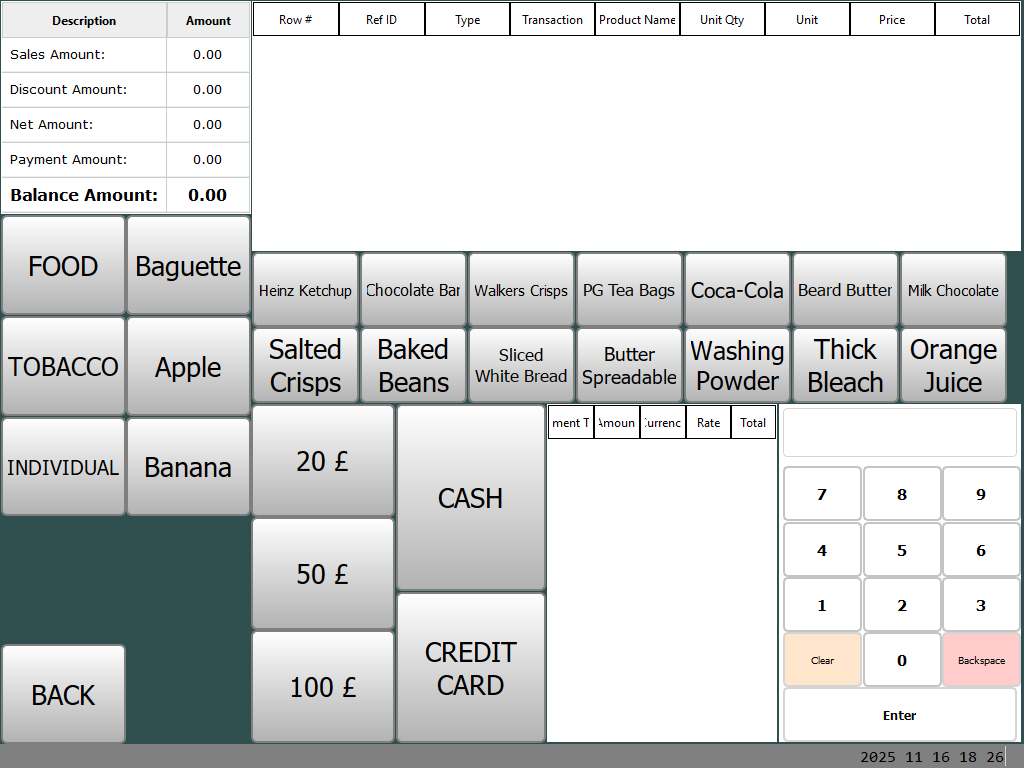
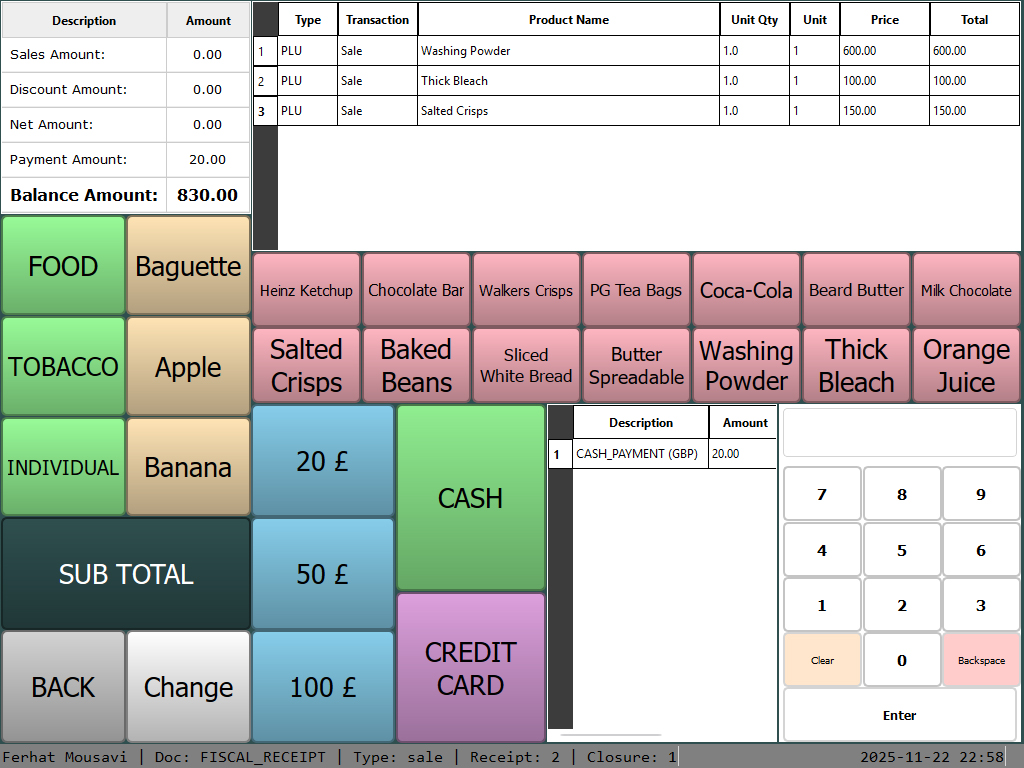
Update SALE form button colors with light color scheme

diff --git a/data_layer/db_init_data/form_control.py b/data_layer/db_init_data/form_control.py
@@ -368,8 +368,8 @@ def _insert_form_controls(session: Session, cashier_id: str):
             font_size=12,
             input_type="ALPHANUMERIC",
             text_image_relation=None,
-            back_color=None,
-            fore_color=None,
+            back_color="0xD3D3D3",  # Light Gray
+            fore_color="0x000000",
             keyboard_value=None,
             fk_cashier_create_id=cashier_id,
             fk_cashier_update_id=cashier_id
@@ -407,8 +407,8 @@ def _insert_form_controls(session: Session, cashier_id: str):
             font_size=10,
             input_type="ALPHANUMERIC",
             text_image_relation=None,
-            back_color=None,
-            fore_color=None,
+            back_color="0x98FB98",  # Pale Green
+            fore_color="0x000000",
             keyboard_value=None,
             fk_cashier_create_id=cashier_id,
             fk_cashier_update_id=cashier_id
@@ -442,8 +442,8 @@ def _insert_form_controls(session: Session, cashier_id: str):
             font_size=10,
             input_type="ALPHANUMERIC",
             text_image_relation=None,
-            back_color=None,
-            fore_color=None,
+            back_color="0x98FB98",  # Pale Green
+            fore_color="0x000000",
             keyboard_value=None,
             fk_cashier_create_id=cashier_id,
             fk_cashier_update_id=cashier_id
@@ -477,8 +477,8 @@ def _insert_form_controls(session: Session, cashier_id: str):
             font_size=10,
             input_type="ALPHANUMERIC",
             text_image_relation=None,
-            back_color=None,
-            fore_color=None,
+            back_color="0x98FB98",  # Pale Green
+            fore_color="0x000000",
             keyboard_value=None,
             fk_cashier_create_id=cashier_id,
             fk_cashier_update_id=cashier_id
@@ -516,8 +516,8 @@ def _insert_form_controls(session: Session, cashier_id: str):
             font_size=12,
             input_type="ALPHANUMERIC",
             text_image_relation=None,
-            back_color=None,
-            fore_color=None,
+            back_color="0xFFE4B5",  # Moccasin
+            fore_color="0x000000",
             keyboard_value=None,
             fk_cashier_create_id=cashier_id,
             fk_cashier_update_id=cashier_id
@@ -551,8 +551,8 @@ def _insert_form_controls(session: Session, cashier_id: str):
             font_size=12,
             input_type="ALPHANUMERIC",
             text_image_relation=None,
-            back_color=None,
-            fore_color=None,
+            back_color="0xFFE4B5",  # Moccasin
+            fore_color="0x000000",
             keyboard_value=None,
             fk_cashier_create_id=cashier_id,
             fk_cashier_update_id=cashier_id
@@ -586,8 +586,8 @@ def _insert_form_controls(session: Session, cashier_id: str):
             font_size=12,
             input_type="ALPHANUMERIC",
             text_image_relation=None,
-            back_color=None,
-            fore_color=None,
+            back_color="0xFFE4B5",  # Moccasin
+            fore_color="0x000000",
             keyboard_value=None,
             fk_cashier_create_id=cashier_id,
             fk_cashier_update_id=cashier_id
@@ -645,8 +645,8 @@ def _insert_form_controls(session: Session, cashier_id: str):
                 font_size=12,
                 input_type="ALPHANUMERIC",
                 text_image_relation=None,
-                back_color=None,
-                fore_color=None,
+                back_color="0xFFB6C1",  # Light Pink
+                fore_color="0x000000",
                 keyboard_value=None,
                 fk_cashier_create_id=cashier_id,
                 fk_cashier_update_id=cashier_id
@@ -684,8 +684,8 @@ def _insert_form_controls(session: Session, cashier_id: str):
             font_size=12,
             input_type="ALPHANUMERIC",
             text_image_relation=None,
-            back_color=None,
-            fore_color=None,
+            back_color="0x87CEEB",  # Sky Blue
+            fore_color="0x000000",
             keyboard_value=None,
             fk_cashier_create_id=cashier_id,
             fk_cashier_update_id=cashier_id
@@ -719,8 +719,8 @@ def _insert_form_controls(session: Session, cashier_id: str):
             font_size=12,
             input_type="ALPHANUMERIC",
             text_image_relation=None,
-            back_color=None,
-            fore_color=None,
+            back_color="0x87CEEB",  # Sky Blue
+            fore_color="0x000000",
             keyboard_value=None,
             fk_cashier_create_id=cashier_id,
             fk_cashier_update_id=cashier_id
@@ -754,8 +754,8 @@ def _insert_form_controls(session: Session, cashier_id: str):
             font_size=12,
             input_type="ALPHANUMERIC",
             text_image_relation=None,
-            back_color=None,
-            fore_color=None,
+            back_color="0x87CEEB",  # Sky Blue
+            fore_color="0x000000",
             keyboard_value=None,
             fk_cashier_create_id=cashier_id,
             fk_cashier_update_id=cashier_id
@@ -789,8 +789,8 @@ def _insert_form_controls(session: Session, cashier_id: str):
             font_size=12,
             input_type="ALPHANUMERIC",
             text_image_relation=None,
-            back_color=None,
-            fore_color=None,
+            back_color="0x90EE90",  # Light Green
+            fore_color="0x000000",
             keyboard_value=None,
             fk_cashier_create_id=cashier_id,
             fk_cashier_update_id=cashier_id
@@ -824,8 +824,8 @@ def _insert_form_controls(session: Session, cashier_id: str):
             font_size=12,
             input_type="ALPHANUMERIC",
             text_image_relation=None,
-            back_color=None,
-            fore_color=None,
+            back_color="0xDDA0DD",  # Plum
+            fore_color="0x000000",
             keyboard_value=None,
             fk_cashier_create_id=cashier_id,
             fk_cashier_update_id=cashier_id
@@ -894,8 +894,8 @@ def _insert_form_controls(session: Session, cashier_id: str):
             font_size=12,
             input_type="ALPHANUMERIC",
             text_image_relation=None,
-            back_color=None,
-            fore_color=None,
+            back_color="0x2F4F4F",  # Dark Slate Gray
+            fore_color="0xFFFFFF",  # White
             keyboard_value=None,
             fk_cashier_create_id=cashier_id,
             fk_cashier_update_id=cashier_id
